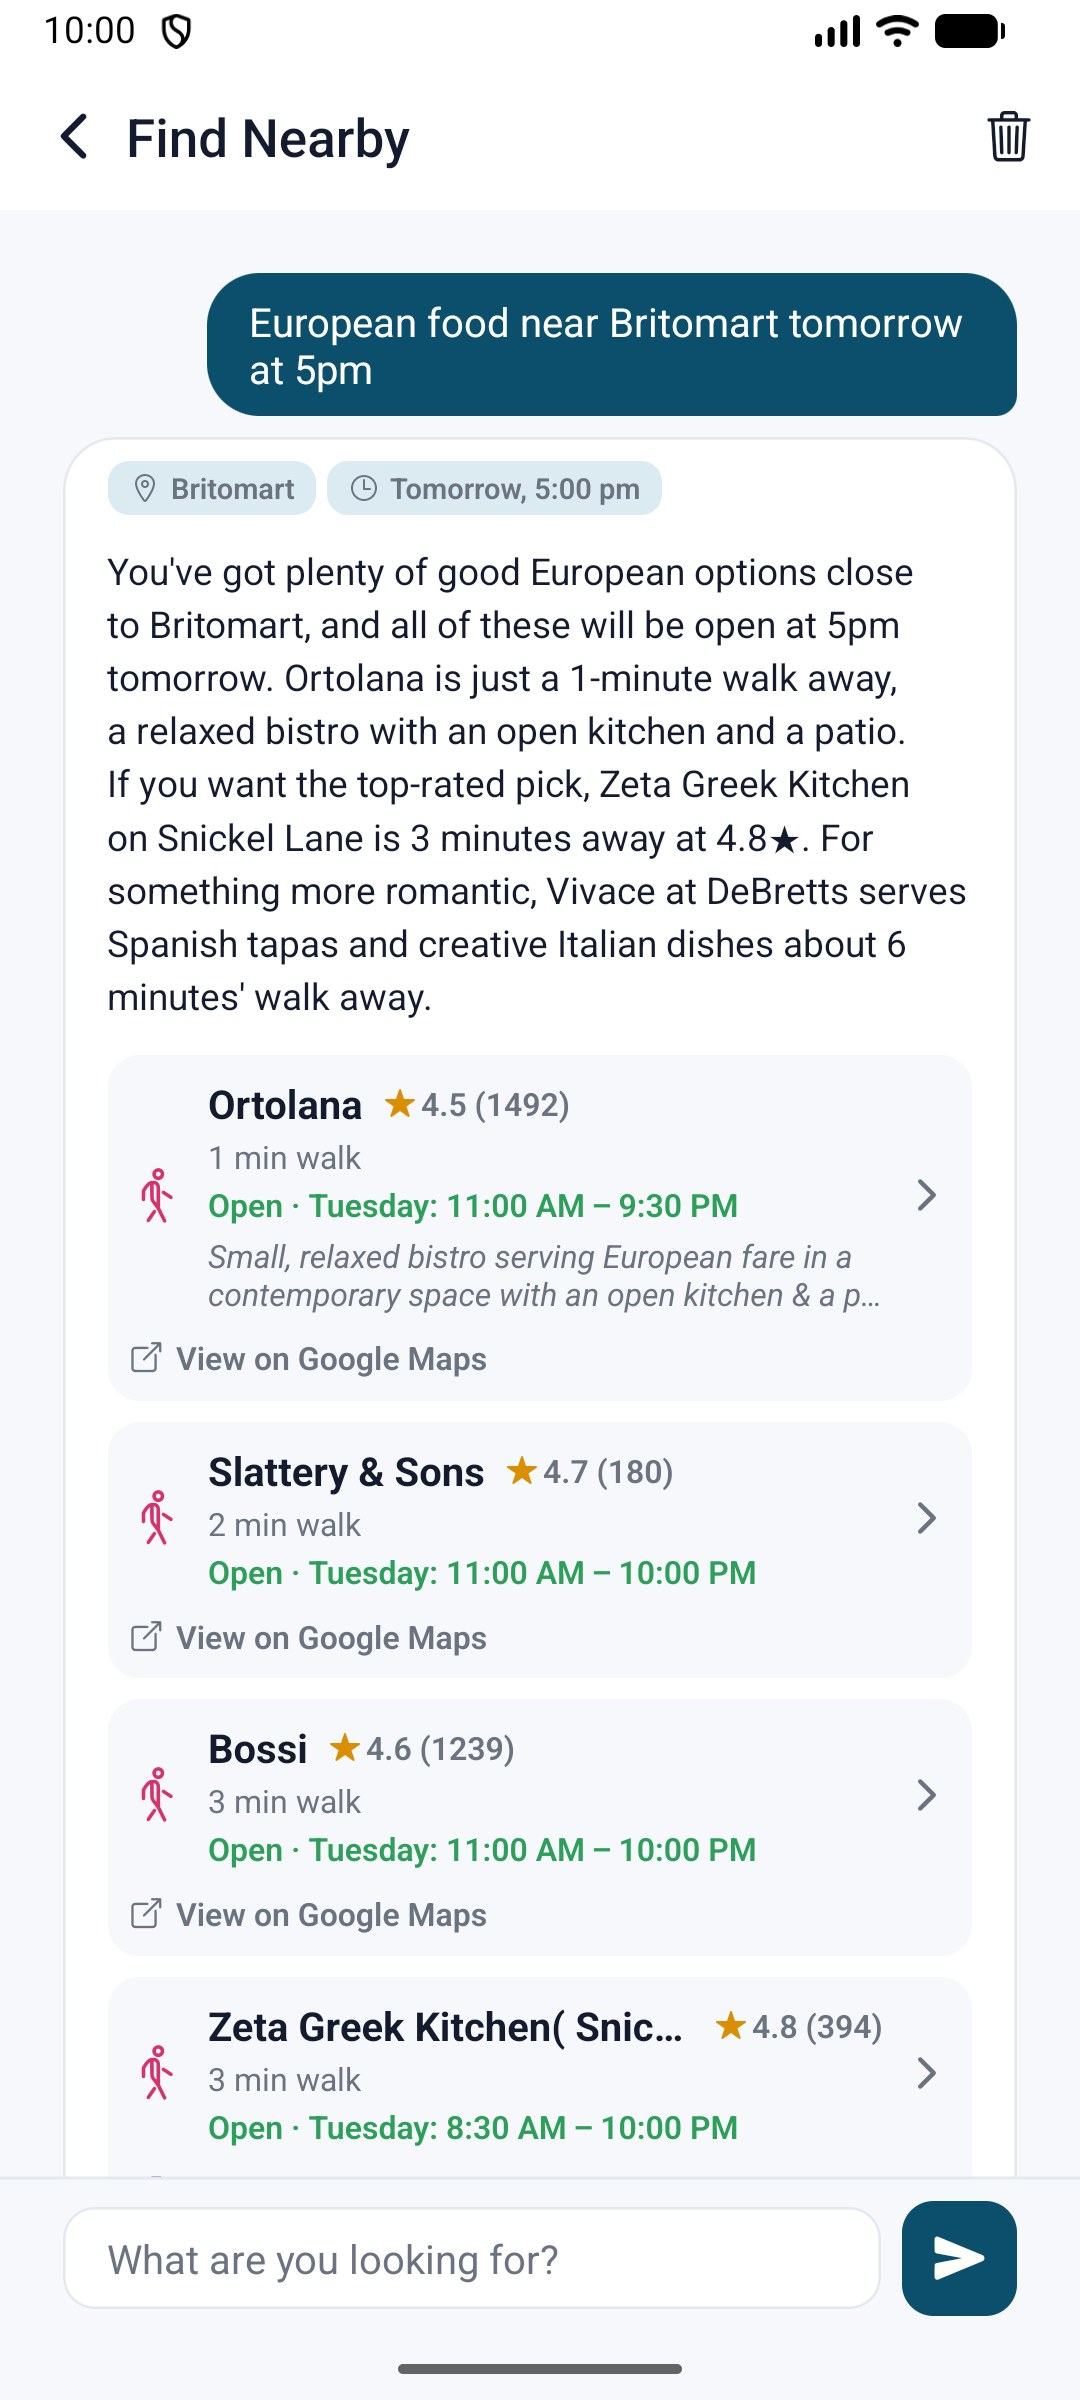
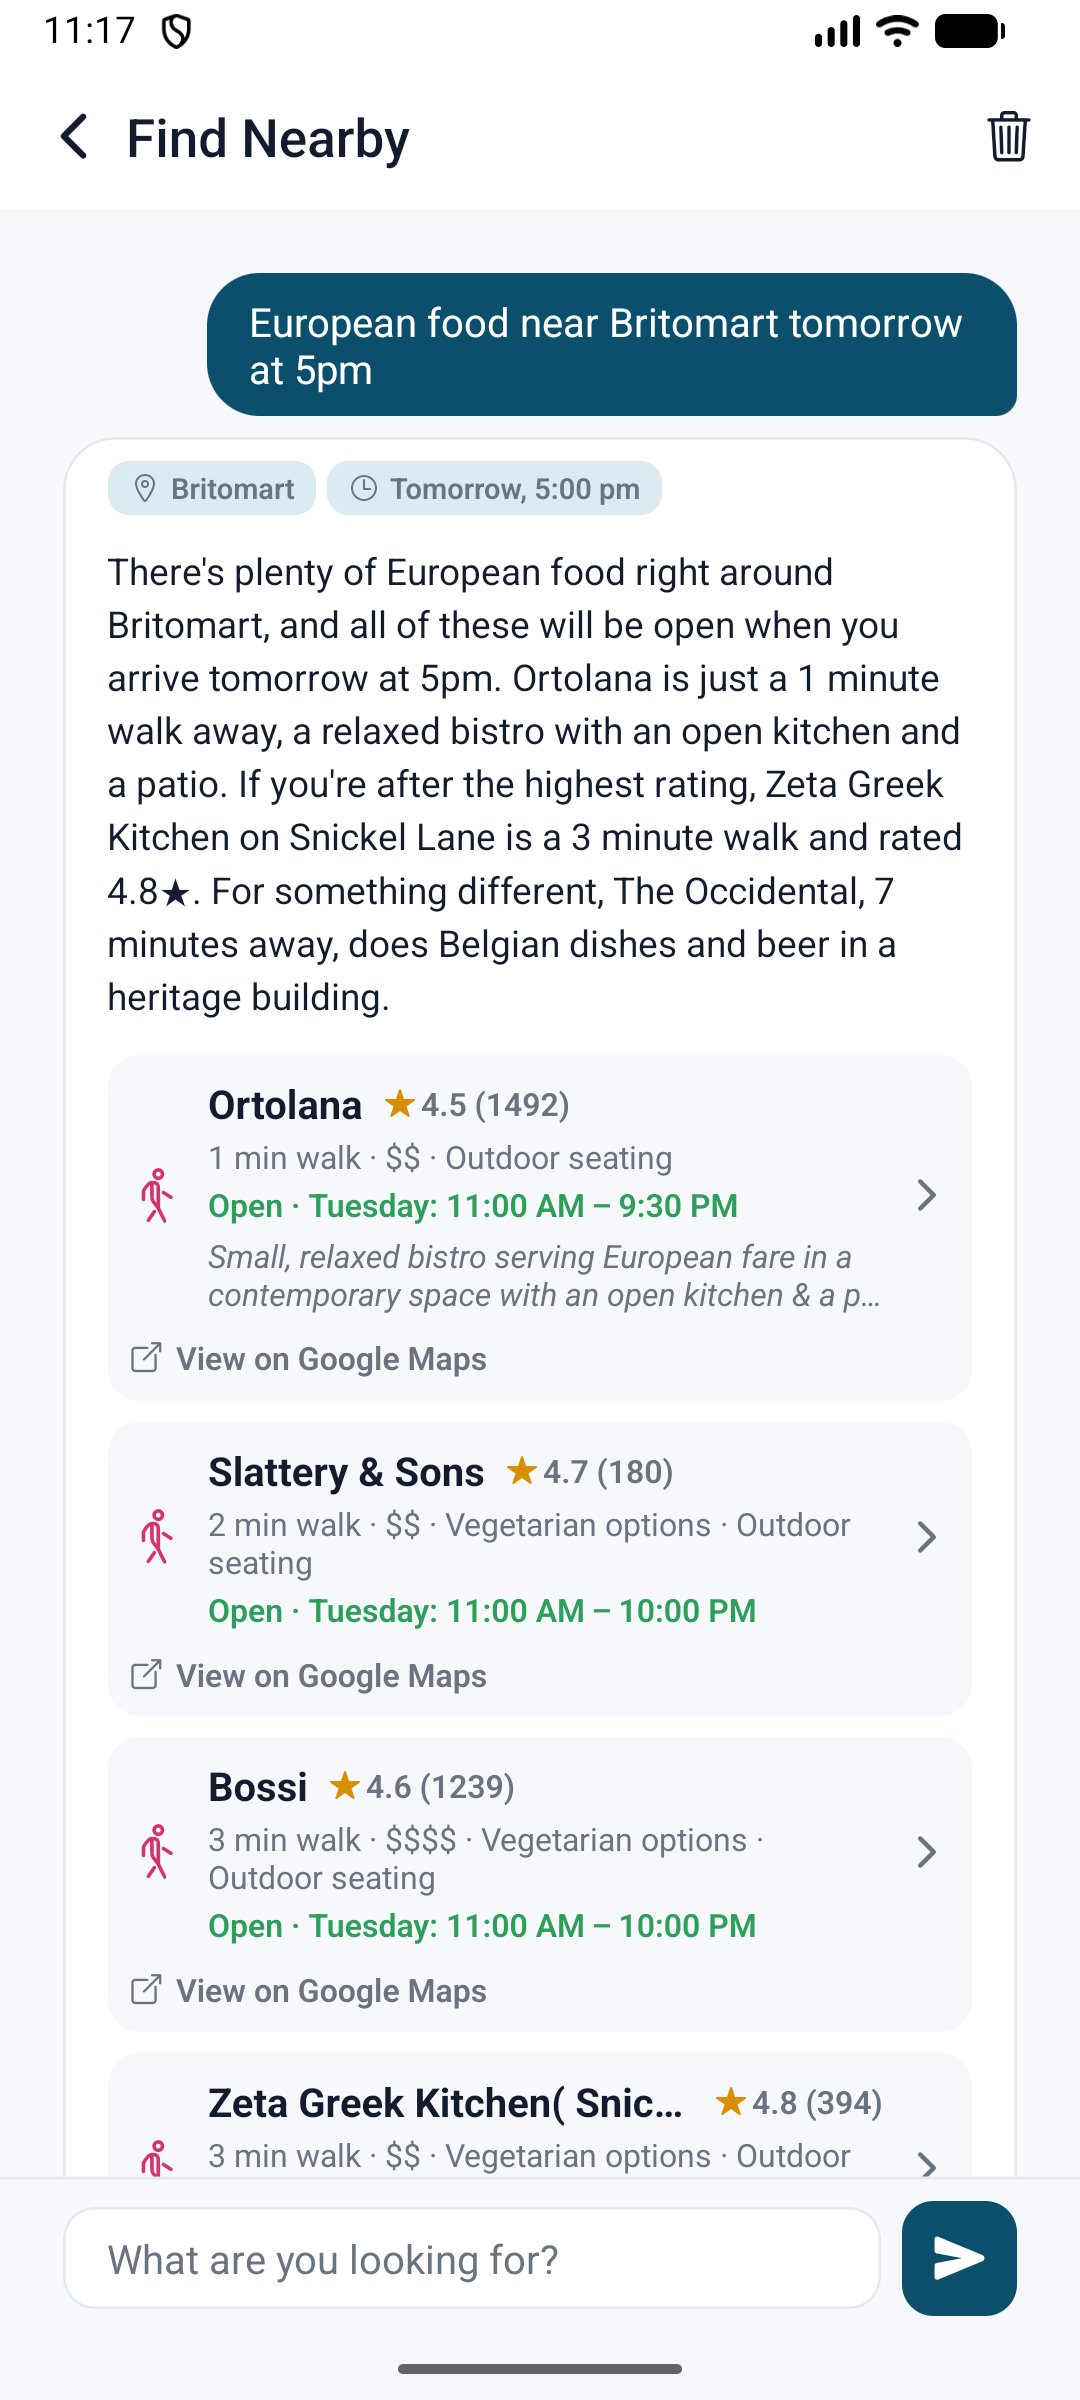
Document the new Find Nearby behaviour and retake its screenshot

diff --git a/README.md b/README.md
@@ -25,7 +25,7 @@ The official app buries notification settings behind several taps and sends recu
 - **Boarding/alighting alerts** — a vibrating notification fires when your vehicle has just arrived at the stop before yours, then again right as you reach your own stop — driven by your live position along the route, not just a fixed time before the scheduled arrival.
 - **Stop details** — live + scheduled departures merged into one list, plus any active service alerts for that stop.
 - **Favourites** — save stops, places, or whole from→to trips for one-tap re-search.
-- **Find Nearby (AI chat)** — ask for anything in plain English or Korean ("European food near Britomart tomorrow at 5pm", "closest cafe", "집 근처 카페") and get real places with real walk/transit times, star ratings, opening hours, and a short written answer. Remembers the conversation for follow-ups, asks when a request is too vague, and treats "home" as your saved home address. See [Find Nearby](#find-nearby--the-ai-chat) below.
+- **Find Nearby (AI chat)** — ask for anything in plain English or Korean ("European food near Britomart tomorrow at 5pm", "closest cafe", "집 근처 카페") and get real places with real walk/transit times, star ratings, opening hours checked for when you'd actually arrive, and a short written answer. Can rank by best rated and filter for cheap, vegetarian or outdoor seating. Remembers the conversation for follow-ups, asks when a request is too vague, and treats "home" as your saved home address. See [Find Nearby](#find-nearby--the-ai-chat) below.
 - **Offline schedule data** — scheduled departures and route path geometry work without a network call, backed by a compact SQLite database built from AT's static GTFS feed (see below — AT's live API doesn't expose this data at all).
 - **Experimental fare estimation** — AT publishes no machine-readable fare data, so this reverse-geocodes each leg and matches it against AT's public fare-zone boundaries, clearly flagged as an estimate.
 - **Dark mode** and **English/Korean localization**, throughout.
@@ -39,20 +39,22 @@ A chat screen (side menu → Find Nearby) that takes free text in English or Kor
 | --- | --- |
 | `closest cafe` | No time limit is invented — places are just ranked by real travel time |
 | `korean bbq within 30 minutes` | Only places actually reachable in 30 minutes |
+| `best ramen near Sky Tower` | Ranked by rating instead of distance — a 4.6★ with 800 reviews beats a 5.0★ with three |
+| `cheap vegetarian lunch` / `cafe with outdoor seating` | Filtered on what Google Places actually knows about each place, shown on the result row |
 | `European food near Britomart tomorrow at 5pm` | Searches around Britomart, routes for a 5pm departure tomorrow, keeps only places open then |
 | `ramen near Sky Tower Friday evening` | A vague "evening" becomes a concrete 6pm for routing and opening hours |
 | `cafe near home` / `집 근처 카페` | Resolves to your saved home address — not a business that happens to be called "Home" |
 | `somewhere to eat` | Asks what kind of food you're after instead of guessing |
 | …then `actually only walking` | Read as a refinement of the previous request, not a new one |
 
-Each result shows the travel time (walk, or the transit line to take), star rating, today's opening hours with an open/closed flag, Google's editorial summary when there is one, and a Google Maps link; tapping a result hands off to the journey planner. When you didn't say *when* you're going, results aren't filtered by opening hours — closed ones are shown as closed and the reply asks what time you're heading out. The conversation persists across app restarts, with a trash button in the header to clear it.
+Each result shows the travel time (walk, or the transit line to take), star rating, price and the details a search can ask for (vegetarian options, outdoor seating) when Places knows them, opening hours with an open/closed flag, Google's editorial summary when there is one, and a Google Maps link; tapping a result hands off to the journey planner. Opening hours are judged at the moment you'd **arrive** (departure plus the real travel time), not when you set off — a place that shuts ten minutes after you leave isn't open for a twenty-minute walk — and one that closes within the hour after you'd arrive says so ("Closes 12 min after you arrive"). When you didn't say *when* you're going, results aren't filtered by opening hours — ones closed on arrival are shown as closed and the reply asks what time you're heading out. Places often has no price or menu data for a place; that is treated as *unknown*, never as *no*, so a "cheap" search drops places Google says are expensive but keeps (and ranks after the confirmed ones) places it has nothing on. The conversation persists across app restarts, with a trash button in the header to clear it.
 
 **How a message becomes an answer:**
 
-1. **Parse** — the app sends the text (plus the previous turn, for follow-ups) to the Worker's `/parse-nearby`, which returns structured fields: category, time budget, travel modes, a "means my home" flag, a named reference place, a target day/hour/minute — or a clarifying question.
+1. **Parse** — the app sends the text (plus the previous turn, for follow-ups) to the Worker's `/parse-nearby`, which returns structured fields: category, time budget, travel modes, a "means my home" flag, a named reference place, a target day/hour/minute, closest-vs-best-rated, and cheap/vegetarian/outdoor-seating flags — or a clarifying question.
 2. **Pick the origin** — live GPS, a named place geocoded through Places Text Search, or the saved home address (looked up through Place Details when it's stored as a place ID).
-3. **Search and prune** — Places Text Search finds candidates; straight-line distance (free) cuts them to the 8 closest so only those cost a Routes API call.
-4. **Route and rank** — real walk or transit times for the requested departure, opening hours matched against the target moment, ranked by travel time.
+3. **Search and prune** — Places Text Search finds candidates; straight-line distance (free) cuts them to 8 — the closest, or for a "best" search the highest quality score (a rating pulled toward the average until it has real review volume) — so only those cost a Routes API call.
+4. **Route and rank** — real walk or transit times for the requested departure, opening hours matched against the arrival moment, ranked by travel time (or by quality for "best").
 5. **Explain** — the final list goes to `/explain-results`, which writes 2–4 sentences describing it. It can describe results; it can't add any.
 
 The model's job ends at step 1 and begins again at step 5 — everything in between is real map data and deterministic code (`src/services/nearbyRanking.ts`, unit-tested). The Worker is documented in [server/README.md](server/README.md).
@@ -83,6 +85,7 @@ A few problems that took real digging to solve properly, condensed here — the 
 - **Fare estimation from data that doesn't officially exist.** AT publishes no fare API and no downloadable fare-zone map (confirmed against the Mobility Database feed listing and both APIs in use). Fares are estimated by reverse-geocoding each leg's boarding/alighting stop and matching the resulting suburb against AT's own zone-boundary descriptions, hand-transcribed from their public fares page — deliberately labeled "(approximate)" in the UI rather than presented as authoritative.
 - **A free-text chat feature that never lets the model touch a real place, route, or date.** Find Nearby's Claude proxy only ever extracts structured intent (category, a stated time budget, a named reference location, a day/hour/minute) from the sentence — it never picks a place, computes an actual date, or invents a default the user didn't ask for (a plain "closest X" has no time limit; "Friday evening" without an exact hour still needs a concrete hour for real routing, so vague time-of-day words map to a representative hour rather than silently defaulting to whatever moment the request happens to arrive at). All real data — distance pruning, opening-hours matching, ranking — is pure, deterministic, unit-tested TypeScript with zero model involvement.
 - **Catching a language model inventing things — by testing it live, not by rereading the prompt.** Each of these was a real bug before it was a fix: "cafe near home" searched Places for a business literally named "Home" and returned a "Home Cafe" (fix: a separate `useSavedHome` signal, resolved against the app's own saved address — including one stored as just a place ID); an unstated time budget silently defaulted to 20 minutes and hid real matches (fix: `maxMinutes` nullable end to end); "open right now" was quietly assumed when nobody gave a time, so a Korean-Chinese restaurant query at 8:45am came back empty (fix: always show hours, filter only on an explicit time, and have the reply ask when you're going); and a "fix obvious typos" instruction turned a real shop name, Yogost, into "yogurt" (fix: tell brand names apart from garbled ordinary words). The same vagueness also had to be judged the same in both languages — "somewhere to eat" got a clarifying question while its Korean equivalent silently searched for "restaurant" — so every fix was re-checked with paired English/Korean queries against the deployed Worker.
+- **Making a prompt change safe to ship — an eval, not a hunch.** The parse prompt had grown one bug fix at a time, and any new rule could quietly break an old one. `server/eval` runs about 70 English and Korean phrasings (follow-up refinements and too-vague requests included) through the exact prompt, schema and call the Worker uses and checks every field (`npm run eval`). Opus 5.5, Sonnet 5.5 and Haiku 5.5 all passed, so parsing moved to Haiku — about a third faster at roughly 1/40th of the cost per search — and repeating each case exposed two coin-flip failures a single pass had missed (a "within 1km" limit dropped on Sonnet in 3 of 8 runs; "cheap vegetarian lunch" read as too vague on Haiku in 1 of 8), which were fixed in the prompt and re-measured at 10 of 10. The same testing kept the written reply on Opus: the smaller models answered Korean questions in English.
 
 ## Known limitations
 
@@ -90,9 +93,9 @@ A few problems that took real digging to solve properly, condensed here — the 
 - **Built and tested on Android only** — the app is configured for iOS too (bundle identifier, permissions, plugins are all in `app.config.js`), but a real iOS build requires a paid Apple Developer Program membership to install on a physical device, which this project hasn't set up. Untested on iOS as a result.
 - **Route highlights, per-leg stop lists and scheduled departures depend on a bundled timetable snapshot.** AT re-issues its trip IDs whenever it publishes a new schedule, so the snapshot can fall out of step with the live feed well before its stated end date. This bit for real: a check of every live vehicle against the bundled database found only 35% of their trips (so only 35% could show a route), until it was rebuilt from a fresh feed (100%). Rebuilding is `scripts/build-gtfs-db.py` on AT's current `gtfs.zip` — worth repeating whenever AT publishes a new feed. The hamburger menu warns when the feed is close to expiring, but that date alone doesn't catch this drift.
 - **Fare estimates are approximate**, not official pricing — see above.
-- **Automated tests cover only the Find Nearby ranking logic** (`src/services/nearbyRanking.ts`, run via `npm test`) — distance pruning, duration filtering, and opening-hours/date resolution, since that logic is pure and easy to get subtly wrong. Everything else was verified through real-API testing (with live keys, not mocks) and manual device testing, not unit/integration tests.
+- **Automated tests cover only the Find Nearby logic** — the ranking in `src/services/nearbyRanking.ts` (run via `npm test`: distance pruning, best-rating scoring, price/vegetarian/outdoor matching, date resolution and opening hours at arrival time) plus a model eval for the parser (`server/eval`), since that logic is pure and easy to get subtly wrong. Everything else was verified through real-API testing (with live keys, not mocks) and manual device testing, not unit/integration tests.
 - **Find Nearby is optional and has its own moving parts.** It needs the `server/` Worker deployed and an Anthropic API key (the rest of the app works without either), and every search costs two model calls — one to parse, one to write the reply. The Worker's 10-requests-a-minute-per-IP limit is a best-effort in-memory counter, not a hard cap.
-- **Find Nearby only knows what Google Places knows.** Ratings, hours and summaries come straight from Places, so there are no menus (it links out to Google Maps instead), and a place with no listed hours is shown rather than filtered out. Only the 8 closest candidates are routed and 6 are shown, to keep API cost bounded.
+- **Find Nearby only knows what Google Places knows.** Ratings, hours and summaries come straight from Places, so there are no menus (it links out to Google Maps instead), and a place with no listed hours is shown rather than filtered out. Price, vegetarian and outdoor-seating details are missing for many places, so those filters can only confirm what Google knows. Only 8 candidates (the closest, or for "best" the highest-scoring) are routed and 6 are shown, to keep API cost bounded.
 - **"Near my work" isn't resolved automatically** — home is the only saved location, so a work reference gets a clarifying question instead.
 - **Understanding the request is a language model's job, so it isn't deterministic.** I checked a few dozen English and Korean phrasings against the live Worker by hand, but there's no automated eval suite for the parsing itself.
 

diff --git a/server/README.md b/server/README.md
@@ -5,12 +5,16 @@ A two-endpoint Cloudflare Worker behind the app's "Find Nearby" chat feature:
 - `POST /parse-nearby` — turns free text ("European food near Britomart tomorrow at 5pm", in
   English or Korean) into structured search intent: category, a stated time budget, travel
   modes, whether it means the app's saved home address, a named reference location, a target
-  day/hour/minute, and — when the request is too vague to act on — a clarifying question to ask
+  day/hour/minute, whether they want the closest or the best rated, whether they asked for cheap,
+  vegetarian or outdoor seating, and — when the request is too vague to act on — a clarifying question to ask
   back. Accepts an optional `previousIntent` so a short follow-up ("actually walking only") is
   understood as a refinement of the last turn rather than its own incomplete request.
 - `POST /explain-results` — takes the client's own already-computed real results (places, real
-  travel times, ratings, hours) and writes a short natural-language reply. Never invents a
-  place, distance, or detail that isn't in the list it's given.
+  travel times, ratings, hours at the moment of arrival, price and menu details) and writes a short
+  reply in the user's language. Never invents a place, distance, or detail that isn't in the list
+  it's given. Runs on Opus 5.5 because the smaller models answered Korean questions in English;
+  Opus always thinks before answering, so it gets a generous `max_tokens` (at 300 the reply came
+  back empty or cut off).
 
 Neither endpoint ever picks a place, a route, or a travel time itself, and neither computes an
 actual date — those come from real Google Places/Routes data and pure date-math, both handled
@@ -50,7 +54,7 @@ curl -X POST http://localhost:8787/parse-nearby \
 
 ## Testing the parser
 
-`npm run eval` runs about 50 English and Korean phrasings (plain searches, time limits, saved home,
+`npm run eval` runs about 70 English and Korean phrasings (plain searches, time limits, saved home,
 named places, days and vague times of day, too-vague requests, follow-up refinements, brand names)
 through the same prompt, schema and call the Worker uses, and checks each structured result field
 by field. It needs the key in `.dev.vars` and makes one real API call per case.
@@ -59,6 +63,7 @@ by field. It needs the key in `.dev.vars` and makes one real API call per case.
 npm run eval                                    # the model the Worker uses
 npm run eval -- --model claude-sonnet-5-5       # try another model
 npm run eval -- --filter ko-                    # only cases whose id contains "ko-"
+npm run eval -- --repeat 5                      # each case 5 times — the model isn't deterministic
 ```
 
 Run it before changing the prompt, the schema or the model: a rule tightened for one phrasing can
